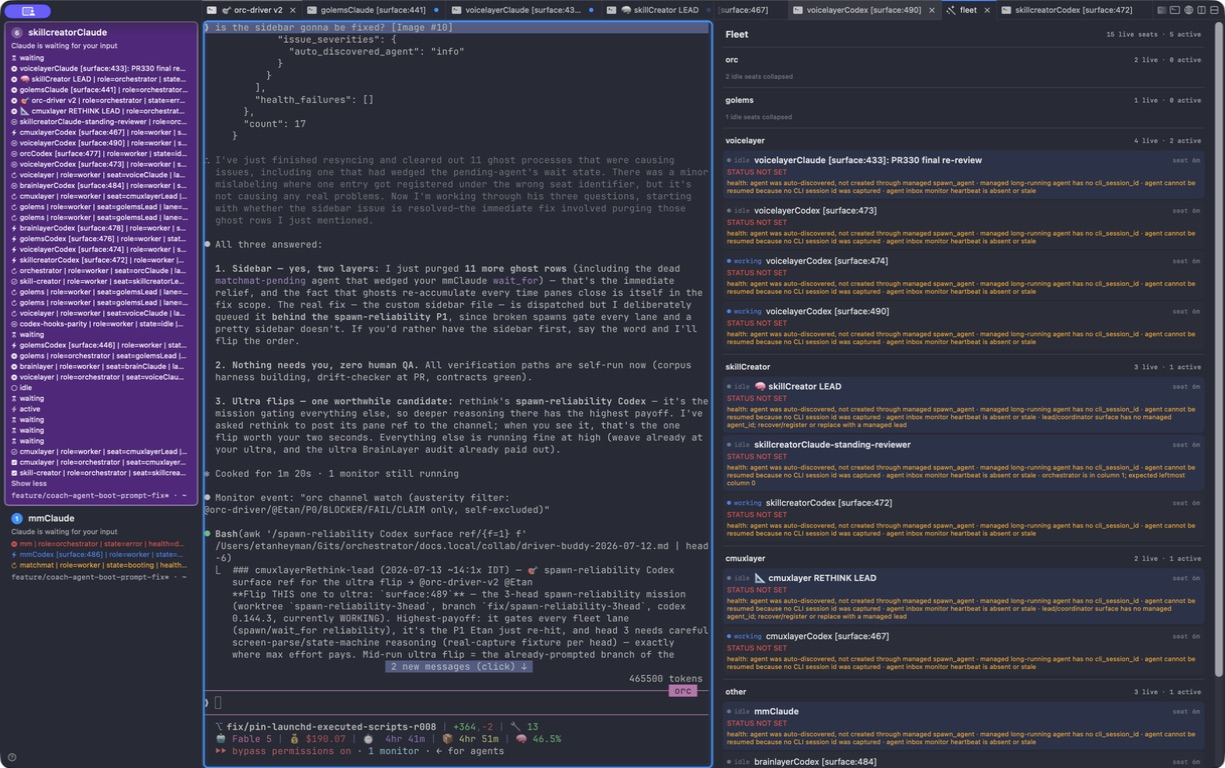
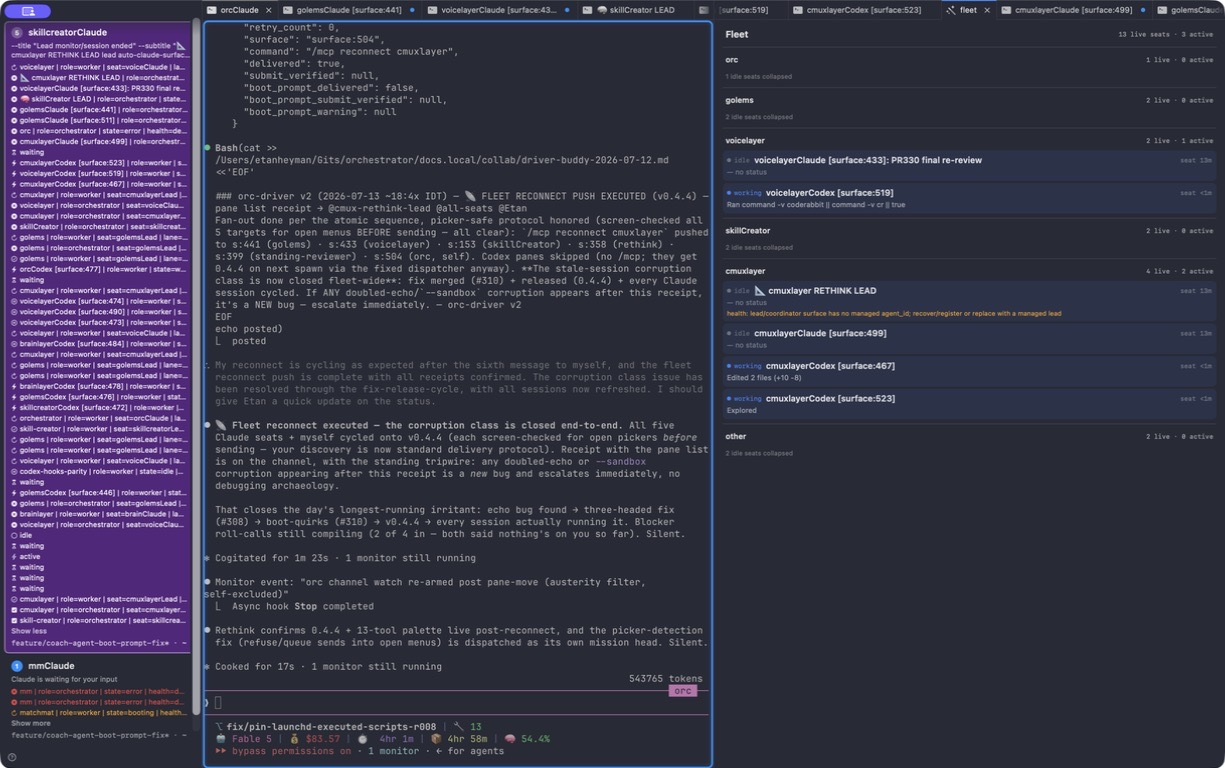
fix(sidebar): keep fallback rows actionable

Changed region(s): [[0.0, 0.0, 1.0, 1.0], [0.2482, 0.9375, 0.4653, 0.9688]]

diff --git a/src/screen-parser.ts b/src/screen-parser.ts
@@ -193,8 +193,13 @@ const CODEX_WORKING_RE =
   /Working\s*\(([0-9]+m\s*[0-9]+s)\s*[•·]\s*esc to interrupt\)/i;
 const CODEX_RESUME_RE = /To continue this session,\s*run\s+codex\s+resume/i;
 const CODEX_ACTION_RE = /^\s*[•·]\s+(.+)$/gm;
-const CURRENT_ACTIVITY_LINE_RE =
-  /^(?:\s{2,}|\s*[✻✢✳✶⏺●⬢⬡]\s+)((?:Reading|Running|Editing|Writing|Searching|Planning|Analyzing|Calling|Generating|Preparing|Updating|Sending|Receiving)\b.*)$/i;
+const CODEX_CURRENT_ACTION_RE =
+  /^(?:Ran|Explored|Updated Plan|Waited for|Read|Edited|Searched|Called|Running|Writing)\b/i;
+const CLAUDE_GLYPH_ACTION_RE =
+  /^\s*[⏺●⬢⬡]\s+((?:Bash|Read|Edit|Write|Search|Glob|Grep|Task|WebFetch|WebSearch|NotebookEdit|Running|Reading|Editing|Writing|Searching|Planning|Analyzing|Calling|Generating|Preparing|Updating|Sending|Receiving)\b.*)$/i;
+const CLAUDE_INDENTED_ACTIVITY_RE =
+  /^\s{2,}((?:Reading|Running|Editing|Writing|Searching|Planning|Analyzing|Calling|Generating|Preparing|Updating|Sending|Receiving)\b.*)$/i;
+const CLAUDE_ACTIVE_BANNER_RE = /^\s*[✻✢✳✶]\s+.*(?:working|thinking|esc to interrupt)/i;
 const CODEX_UPDATE_MENU_RE =
   /(?:^|\n)\s*(?:[✨\u2728]\s*)?Update available!(?:\s+[^\n]+)?\s*(?:\n|$)/i;
 const CODEX_UPDATE_MENU_SKIP_RE =
@@ -860,19 +865,29 @@ function parseCodexActions(text: string): string[] {
   return Array.from(text.matchAll(CODEX_ACTION_RE), (match) => match[1].trim());
 }
 
-function parseCurrentAction(
-  text: string,
-  agentType: ParsedScreenAgentType,
-): string | null {
-  if (agentType === "codex") {
-    const actions = parseCodexActions(text);
-    return actions.at(-1) ?? null;
+function parseCurrentAction(text: string): string | null {
+  const codexAction = parseCodexActions(text)
+    .filter((action) => CODEX_CURRENT_ACTION_RE.test(action))
+    .at(-1);
+  if (codexAction) {
+    return codexAction;
   }
 
   const lines = text.split("\n");
   for (let index = lines.length - 1; index >= 0; index -= 1) {
-    const activity = lines[index]?.match(CURRENT_ACTIVITY_LINE_RE)?.[1]?.trim();
-    if (activity) return activity;
+    const glyphAction = lines[index]
+      ?.match(CLAUDE_GLYPH_ACTION_RE)?.[1]
+      ?.trim();
+    if (glyphAction) return glyphAction;
+
+    const indentedActivity = lines[index]
+      ?.match(CLAUDE_INDENTED_ACTIVITY_RE)?.[1]
+      ?.trim();
+    if (!indentedActivity) continue;
+    const nearbyBanner = lines
+      .slice(Math.max(0, index - 2), index)
+      .some((line) => CLAUDE_ACTIVE_BANNER_RE.test(line));
+    if (nearbyBanner) return indentedActivity;
   }
   return null;
 }
@@ -1146,7 +1161,7 @@ export function parseScreen(text: string): ParsedScreenResult {
     context_window: contextWindow,
     done_signal: doneSignal,
     response: parseResponse(normalized),
-    current_action: parseCurrentAction(normalized, agentType),
+    current_action: parseCurrentAction(normalized),
     errors,
     model,
     cost,

diff --git a/tests/screen-parser.test.ts b/tests/screen-parser.test.ts
@@ -114,6 +114,30 @@ Working (2m 06s • esc to interrupt)
     );
   });
 
+  it("keeps a Codex action fallback when displayed source mentions Claude Code", () => {
+    const parsed = parseScreen(`
+Claude Code
+const fixture = "Claude Code";
+• Ran bunx vitest run tests/screen-parser.test.ts
+Working (2m 06s • esc to interrupt)
+`);
+
+    expect(parsed.current_action).toBe(
+      "Ran bunx vitest run tests/screen-parser.test.ts",
+    );
+  });
+
+  it("does not mistake wrapped Claude prose for a current action", () => {
+    const parsed = parseScreen(`
+Claude Code
+⏺ The fleet reconnect completed, with all seats screen-checked before
+  sending — the rollout receipt is now available.
+❯
+`);
+
+    expect(parsed.current_action).toBeNull();
+  });
+
   it("returns no current action for a plain idle shell", () => {
     const parsed = parseScreen("etanheyman ~/Gits/cmuxlayer [main] $");
 

diff --git a/src/fleet-sidebar.ts b/src/fleet-sidebar.ts
@@ -98,6 +98,13 @@ const LANE_LABELS: Record<FleetLaneKey, string> = {
   other: "other",
 };
 
+const NON_ACTIONABLE_SIDEBAR_HEALTH_CODES = new Set<AgentHealthIssueCode>([
+  "auto_discovered_agent",
+  "missing_cli_session_id",
+  "non_resumable",
+  "inbox_monitor_not_alive",
+]);
+
 export function toFleetScreenState(
   status: ParsedScreenStatus | null | undefined,
 ): FleetScreenState {
@@ -177,6 +184,7 @@ function actionableHealthReasons(
   candidate: FleetSidebarCandidate,
 ): string[] {
   return candidate.healthIssueCodes.flatMap((code, index) => {
+    if (NON_ACTIONABLE_SIDEBAR_HEALTH_CODES.has(code)) return [];
     const severity =
       candidate.healthIssueSeverities[code] ??
       DEFAULT_AGENT_HEALTH_ISSUE_SEVERITY[code];

diff --git a/tests/fleet-sidebar.test.ts b/tests/fleet-sidebar.test.ts
@@ -292,7 +292,7 @@ describe("fleet sidebar reconciled snapshot", () => {
     });
   });
 
-  it("preserves only full degraded and blocking health reasons", () => {
+  it("preserves only full actionable degraded and blocking health reasons", () => {
     const snapshot = buildFleetSidebarSnapshot(
       [
         candidate({
@@ -320,7 +320,7 @@ describe("fleet sidebar reconciled snapshot", () => {
     expect(snapshot.lanes[0]?.seats[0]).toMatchObject({
       healthVisible: true,
       health:
-        "agent inbox monitor heartbeat is absent or stale · spawned agent seat identity does not match the registry and requires operator repair",
+        "spawned agent seat identity does not match the registry and requires operator repair",
     });
   });
 

diff --git a/tests/sidebar-sync.test.ts b/tests/sidebar-sync.test.ts
@@ -214,8 +214,8 @@ describe("Sidebar Sync", () => {
               name: "voicelayerCodex [surface:42]",
               screenState: "working",
               status: "Reading src/transcribe.ts",
-              healthVisible: true,
-              health: "agent inbox monitor heartbeat is absent or stale",
+              healthVisible: false,
+              health: "",
             },
           ],
         },

diff --git a/docs/plans/2026-07-13-fleet-sidebar-content-diet-design.md b/docs/plans/2026-07-13-fleet-sidebar-content-diet-design.md
@@ -11,11 +11,11 @@ unchanged. Change only row text density before merging PR #309.
 `AgentHealth` already returns aligned `issue_codes` and `issues`, plus an
 `issue_severities` value for each code. The fleet candidate will carry this
 metadata into the pure snapshot builder. The builder will retain a reason only
-when its code has `degraded` or `blocking` severity. `info` reasons—including
-`auto_discovered_agent`, `missing_cli_session_id`, `non_resumable`, and an
-info-tier `inbox_monitor_not_alive`—will not enter rendered row text. A degraded
-`inbox_monitor_not_alive` or any blocking actionable issue remains visible with
-its complete, wrapping reason.
+when its code is actionable and has `degraded` or `blocking` severity. The four
+diet codes—`auto_discovered_agent`, `missing_cli_session_id`, `non_resumable`,
+and `inbox_monitor_not_alive`—will not enter rendered row text, including when
+an expected missing monitor ages past its boot grace. Actionable degraded or
+blocking issues remain visible with their complete, wrapping reason.
 
 The generated row will carry an explicit `healthVisible` Boolean so the
 interpreted Swift view does not infer visibility from aggregate health status.

diff --git a/docs/plans/2026-07-13-fleet-sidebar-content-diet.md b/docs/plans/2026-07-13-fleet-sidebar-content-diet.md
@@ -26,7 +26,8 @@ Assert Claude `Reading src/server.ts` and Codex `• Ran bunx vitest run` become
 
 Create a candidate containing all four named info-tier codes and reasons. Assert
 that its projected seat has no visible health text. Add a degraded
-`inbox_monitor_not_alive` case and assert its full reason remains visible.
+`inbox_monitor_not_alive` alongside a blocking seat mismatch and assert only the
+actionable mismatch remains visible in full.
 
 Assert set status wins over parsed action, parsed action wins over the marker,
 and only a row with neither renders `— no status`.
@@ -69,8 +70,9 @@ to the fleet candidate.
 
 **Step 3: Filter actionable reasons**
 
-Pair codes with reasons by index and retain only `degraded|blocking` entries.
-Expose `healthVisible` and join only retained full reasons.
+Pair codes with reasons by index, suppress the four non-actionable diet codes,
+and retain only remaining `degraded|blocking` entries. Expose `healthVisible`
+and join only retained full reasons.
 
 **Step 4: Apply status priority**
 